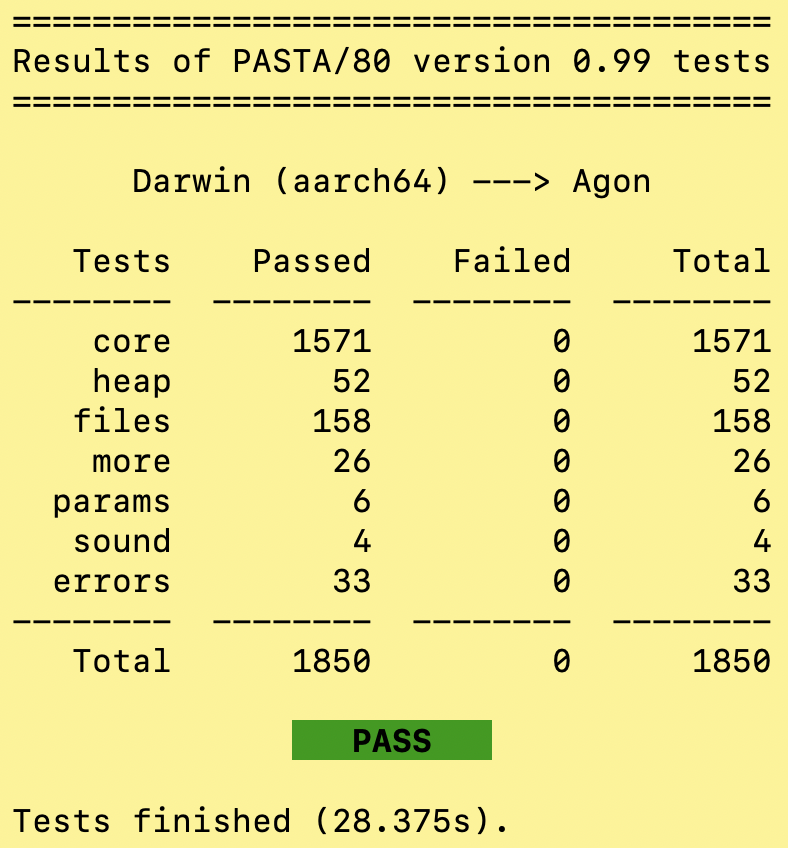
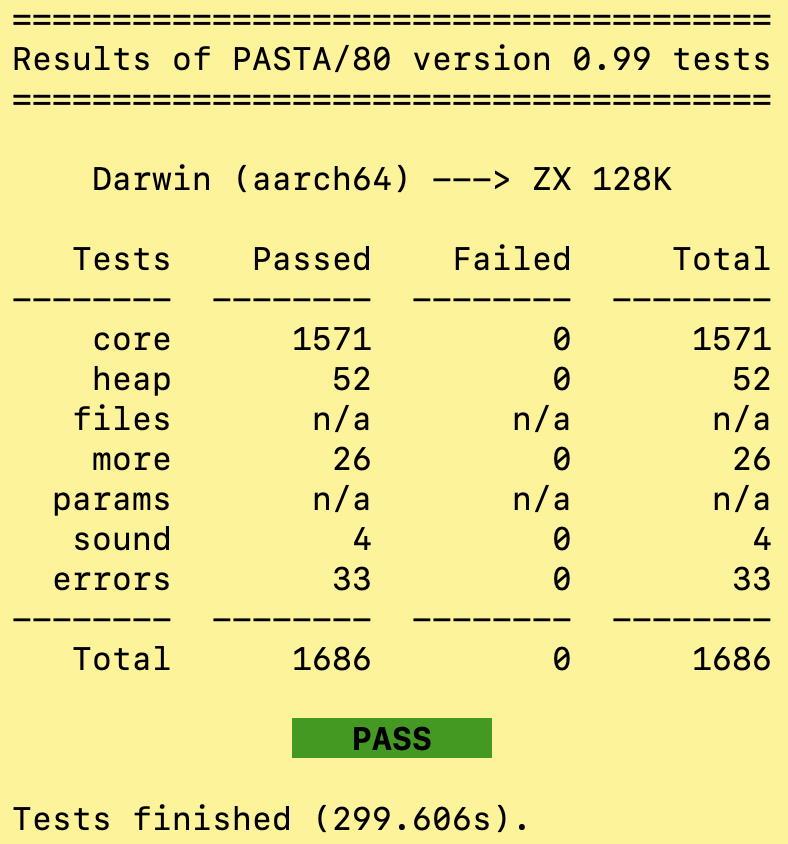
Updating test report screenshots

diff --git a/README.md b/README.md
@@ -405,9 +405,9 @@ This requires the emulators to support capturing printer output, which is not ye
 
 Assuming everything works correctly you should see a report like the following in the end:
 
-| CP/M Tests | Agon Tests |
-| :-------: | :----: |
-| ![Screenshot](docs/images/report1.png) | ![Screenshot](docs/images/report2.png) |
+| CP/M | Spectrum 128K | Spectrum Next | Agon |
+| :---: | :---: | :---: | :---: |
+| ![Screenshot](docs/images/report1.png) | ![Screenshot](docs/images/report2.png) |  ![Screenshot](docs/images/report3.png) | ![Screenshot](docs/images/report4.png) |
 
 ## Minimalistic IDE
 
